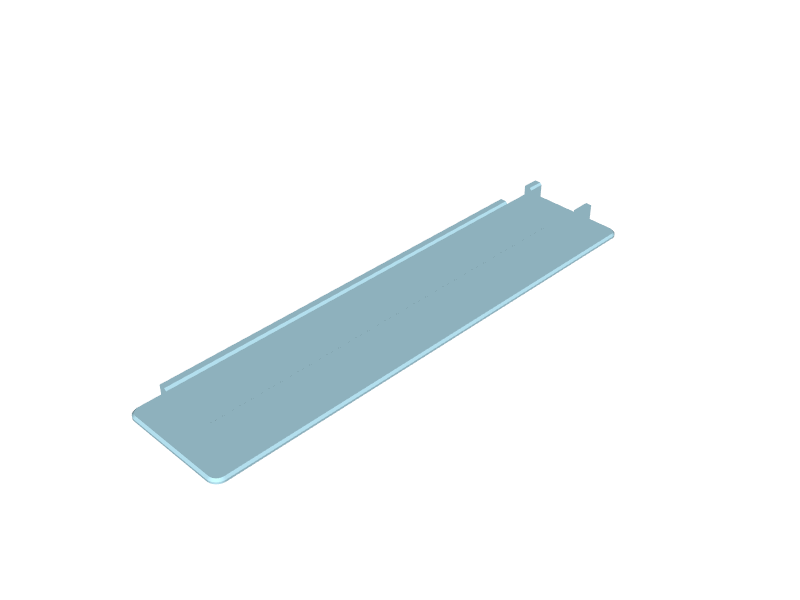
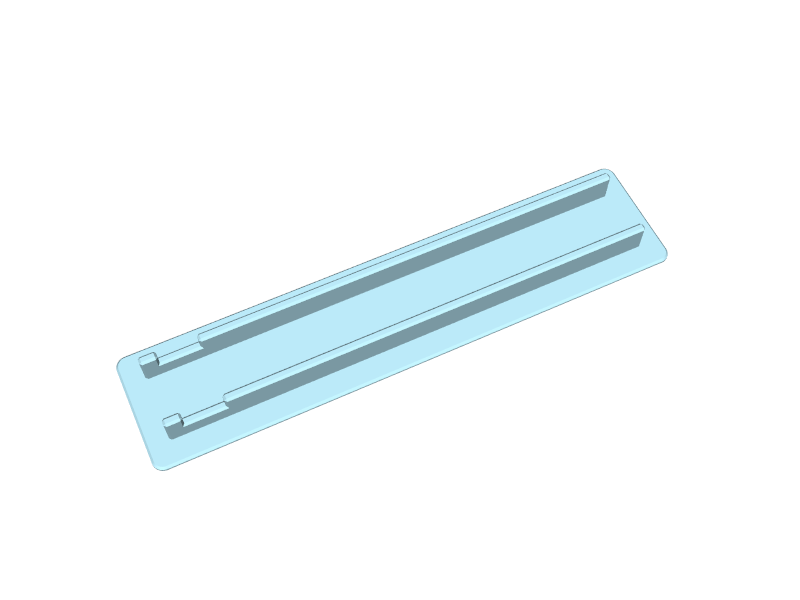
Chamfer the stand rails
Every rail edge above the plate gets the same 1 mm chamfer as the plate
edge: the slot lead-in, the outer top edge, the rail ends and the LED
step. The concave step corners are left sharp.

Changed region(s): [[0.125, 0.27, 0.8438, 0.81]]

diff --git a/cad/base.py b/cad/base.py
@@ -398,9 +398,11 @@ def build_stand():
     rails = []
     for s in (-1, 1):
         r = rect(0, ln, min(s * th / 2, s * (th / 2 + stand_rail_w)), max(s * th / 2, s * (th / 2 + stand_rail_w)), stand_floor_t - 0.01, zt)
-        r = r.chamfer(edge_chamfer, None, [e for e in r.edges().filter_by(Axis.X)                     # lead-in on the slot side
-                                           if abs(e.center().Z - zt) < 1e-3 and abs(abs(e.center().Y) - th / 2) < 1e-3])
-        rails.append(r.cut(*notches))
+        r = r.cut(*notches)
+        step_z = stand_floor_t + stand_led_h
+        r = r.chamfer(edge_chamfer, None, [e for e in r.edges() if e.center().Z > stand_floor_t + 0.5        # every edge above the plate
+                                           and not (abs(e.center().Z - step_z) < 1e-3 and e.bounding_box().size.X < 1e-3)])   # but not the concave step corners
+        rails.append(r)
     return plate.fuse(*rails)
 stand = build_stand()
 show(stand, "stand")

diff --git a/DESIGN.md b/DESIGN.md
@@ -107,7 +107,8 @@ Updated as measurements and decisions come in.
   no overhang). ODD PCB thickness assumed 1.0 like the main board.
 - Stand (`cad/out/stand.stl`): the case stands vertically on either end wall with the ports to the back, in a slot along its length.
   A flat 243.5 x 56 x 2 mm plate (the case length, corners on the 5.1 fillet, 1 mm chamfer on the top edge) so books and the like can lie
-  on it beside the case, with two 4 mm rails 14 mm tall forming a 26.3 mm slot (case 25.7 plus 0.3 a side), 1 mm lead-in on the slot side.
+  on it beside the case, with two 4 mm rails 14 mm tall forming a 26.3 mm slot (case 25.7 plus 0.3 a side). Every rail edge above the
+  plate is chamfered 1 mm (lead-in on the slot side, rail ends, LED step), except the concave step corners.
   Flipping the case from one end to the other turns the lid to the other side of the slot, so both rails are notched the same: they stop
   10 mm short of both ends because the lid's corner screw heads (5.1 from the end faces) stick out of the lid, and drop to 8 mm over the
   LED slit (10.4 up from the audio-end face, Y 17 to 31 plus 2) so the LEDs show when the case stands on the audio end. The 14 mm rails
@@ -309,7 +310,7 @@ Answered:
 
 ## Log
 
-- 2026-11-04: stand slimmed to a 2 mm plate with 4 mm rails (books can lie on the plate; a third of the filament)
+- 2026-11-04: stand slimmed to a 2 mm plate with 4 mm rails (books can lie on the plate; a third of the filament); rail edges chamfered
 - 2026-11-03: stand for standing the case on either end wall, ports to the back (`cad/out/stand.stl`): slotted bar, walls notched at the ends
   for the lid screw heads and over the LED slit
 - 2026-11-03: base v8: the board collides with the 10 mm port-edge corner posts. Posts flattened at 0.5 from the board's X extent, audio-end
